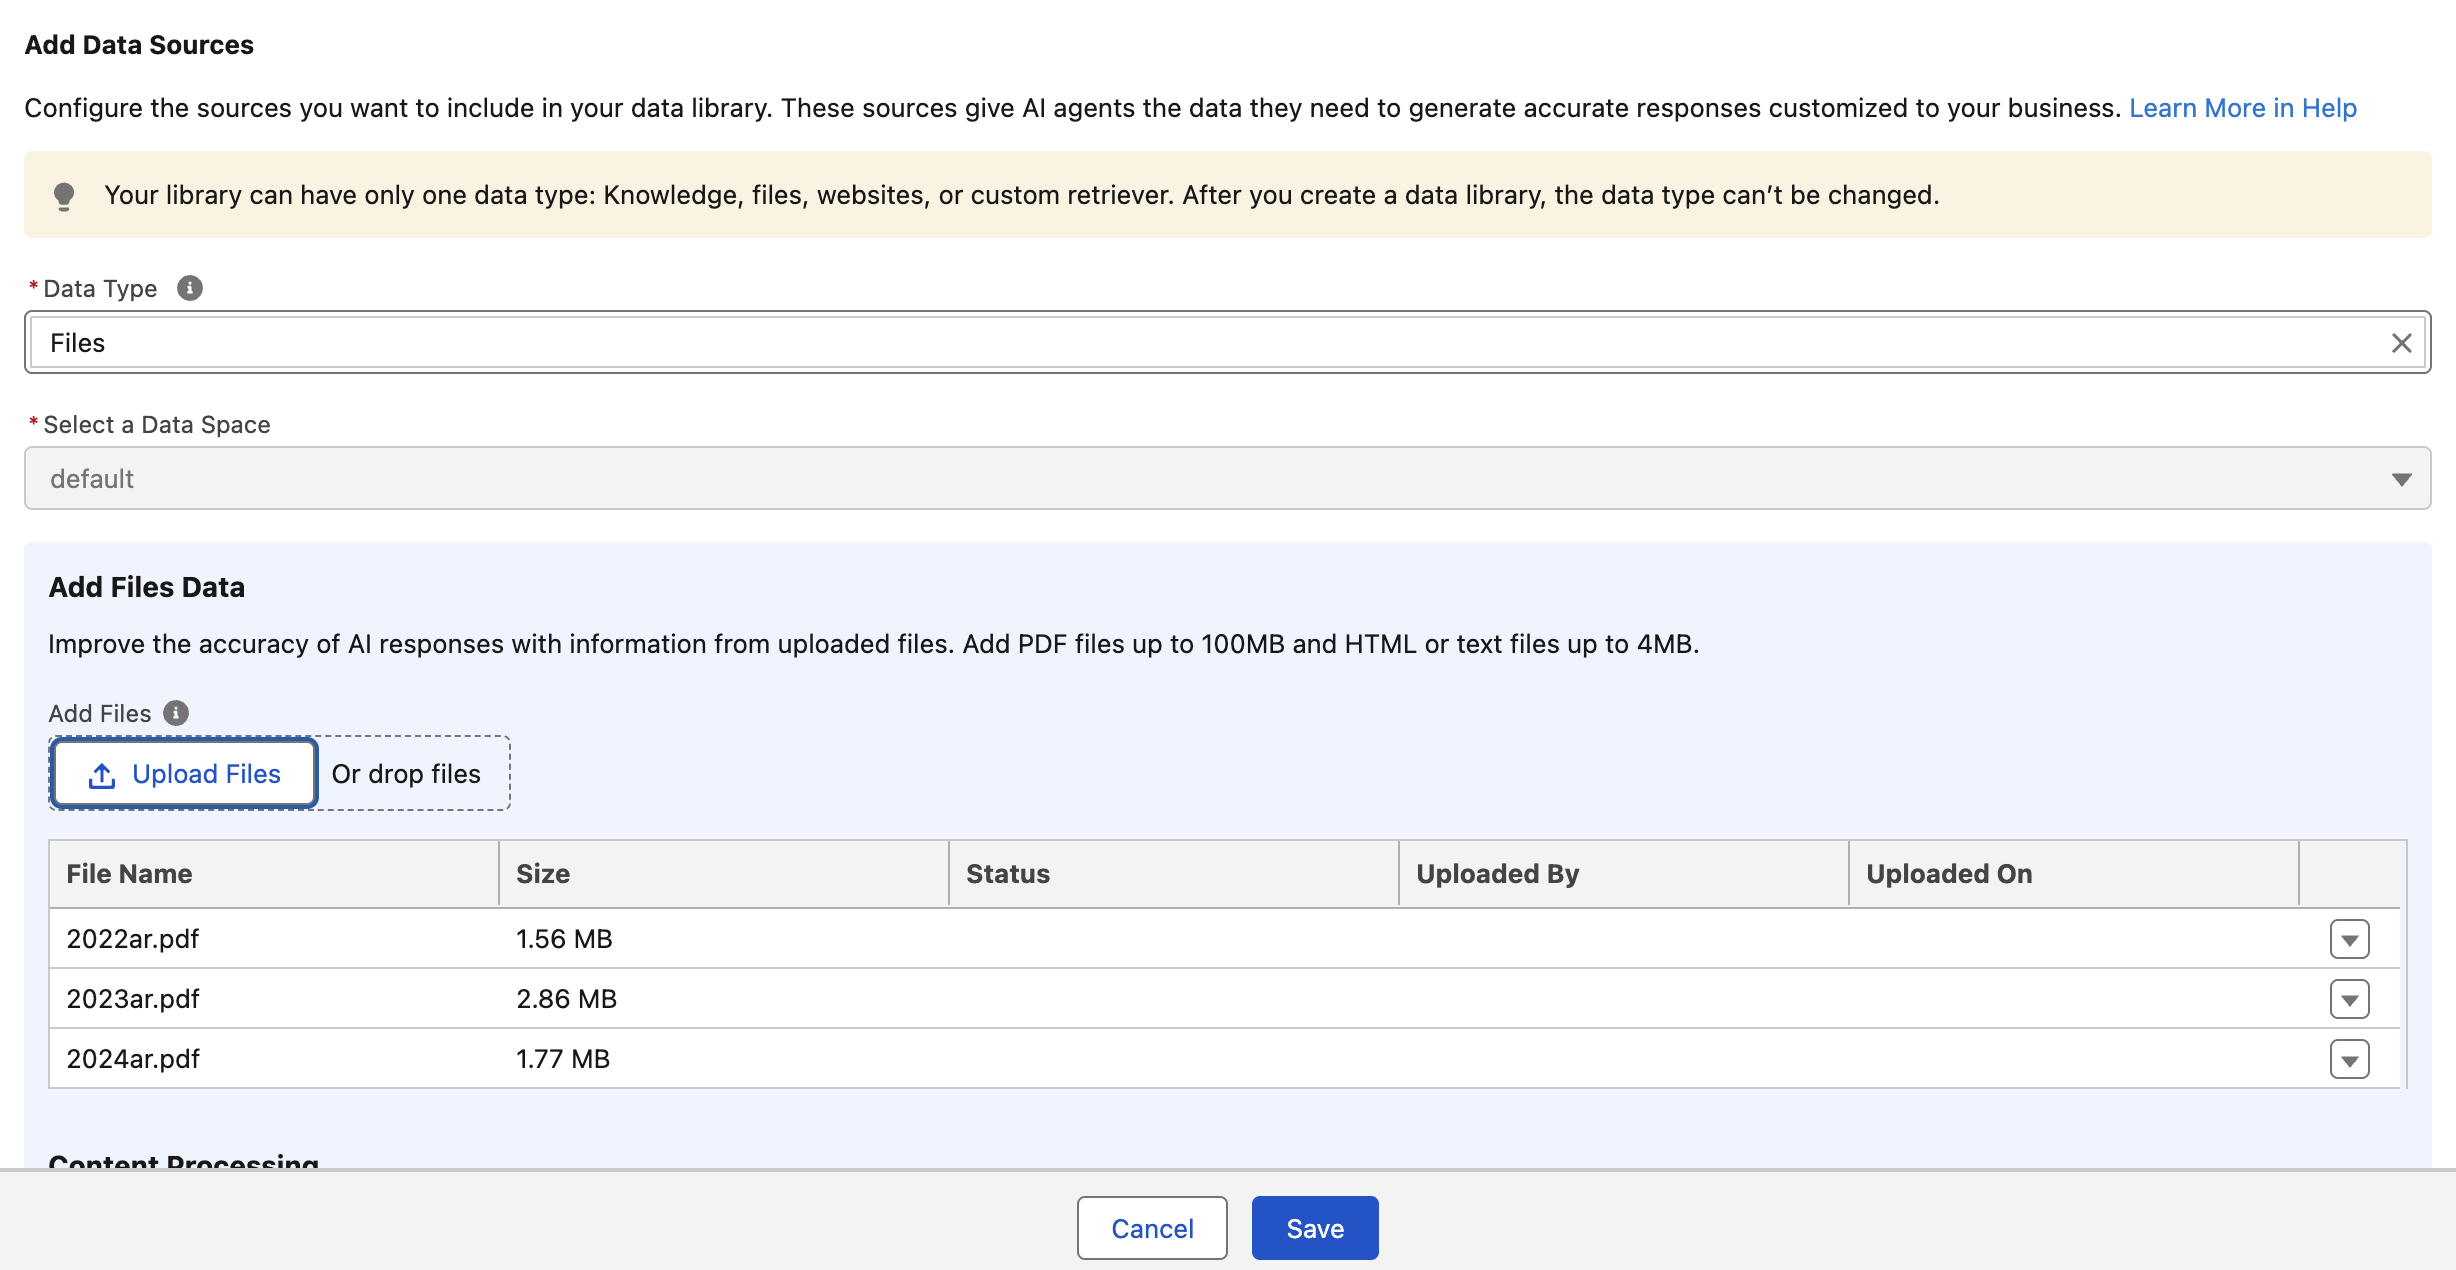
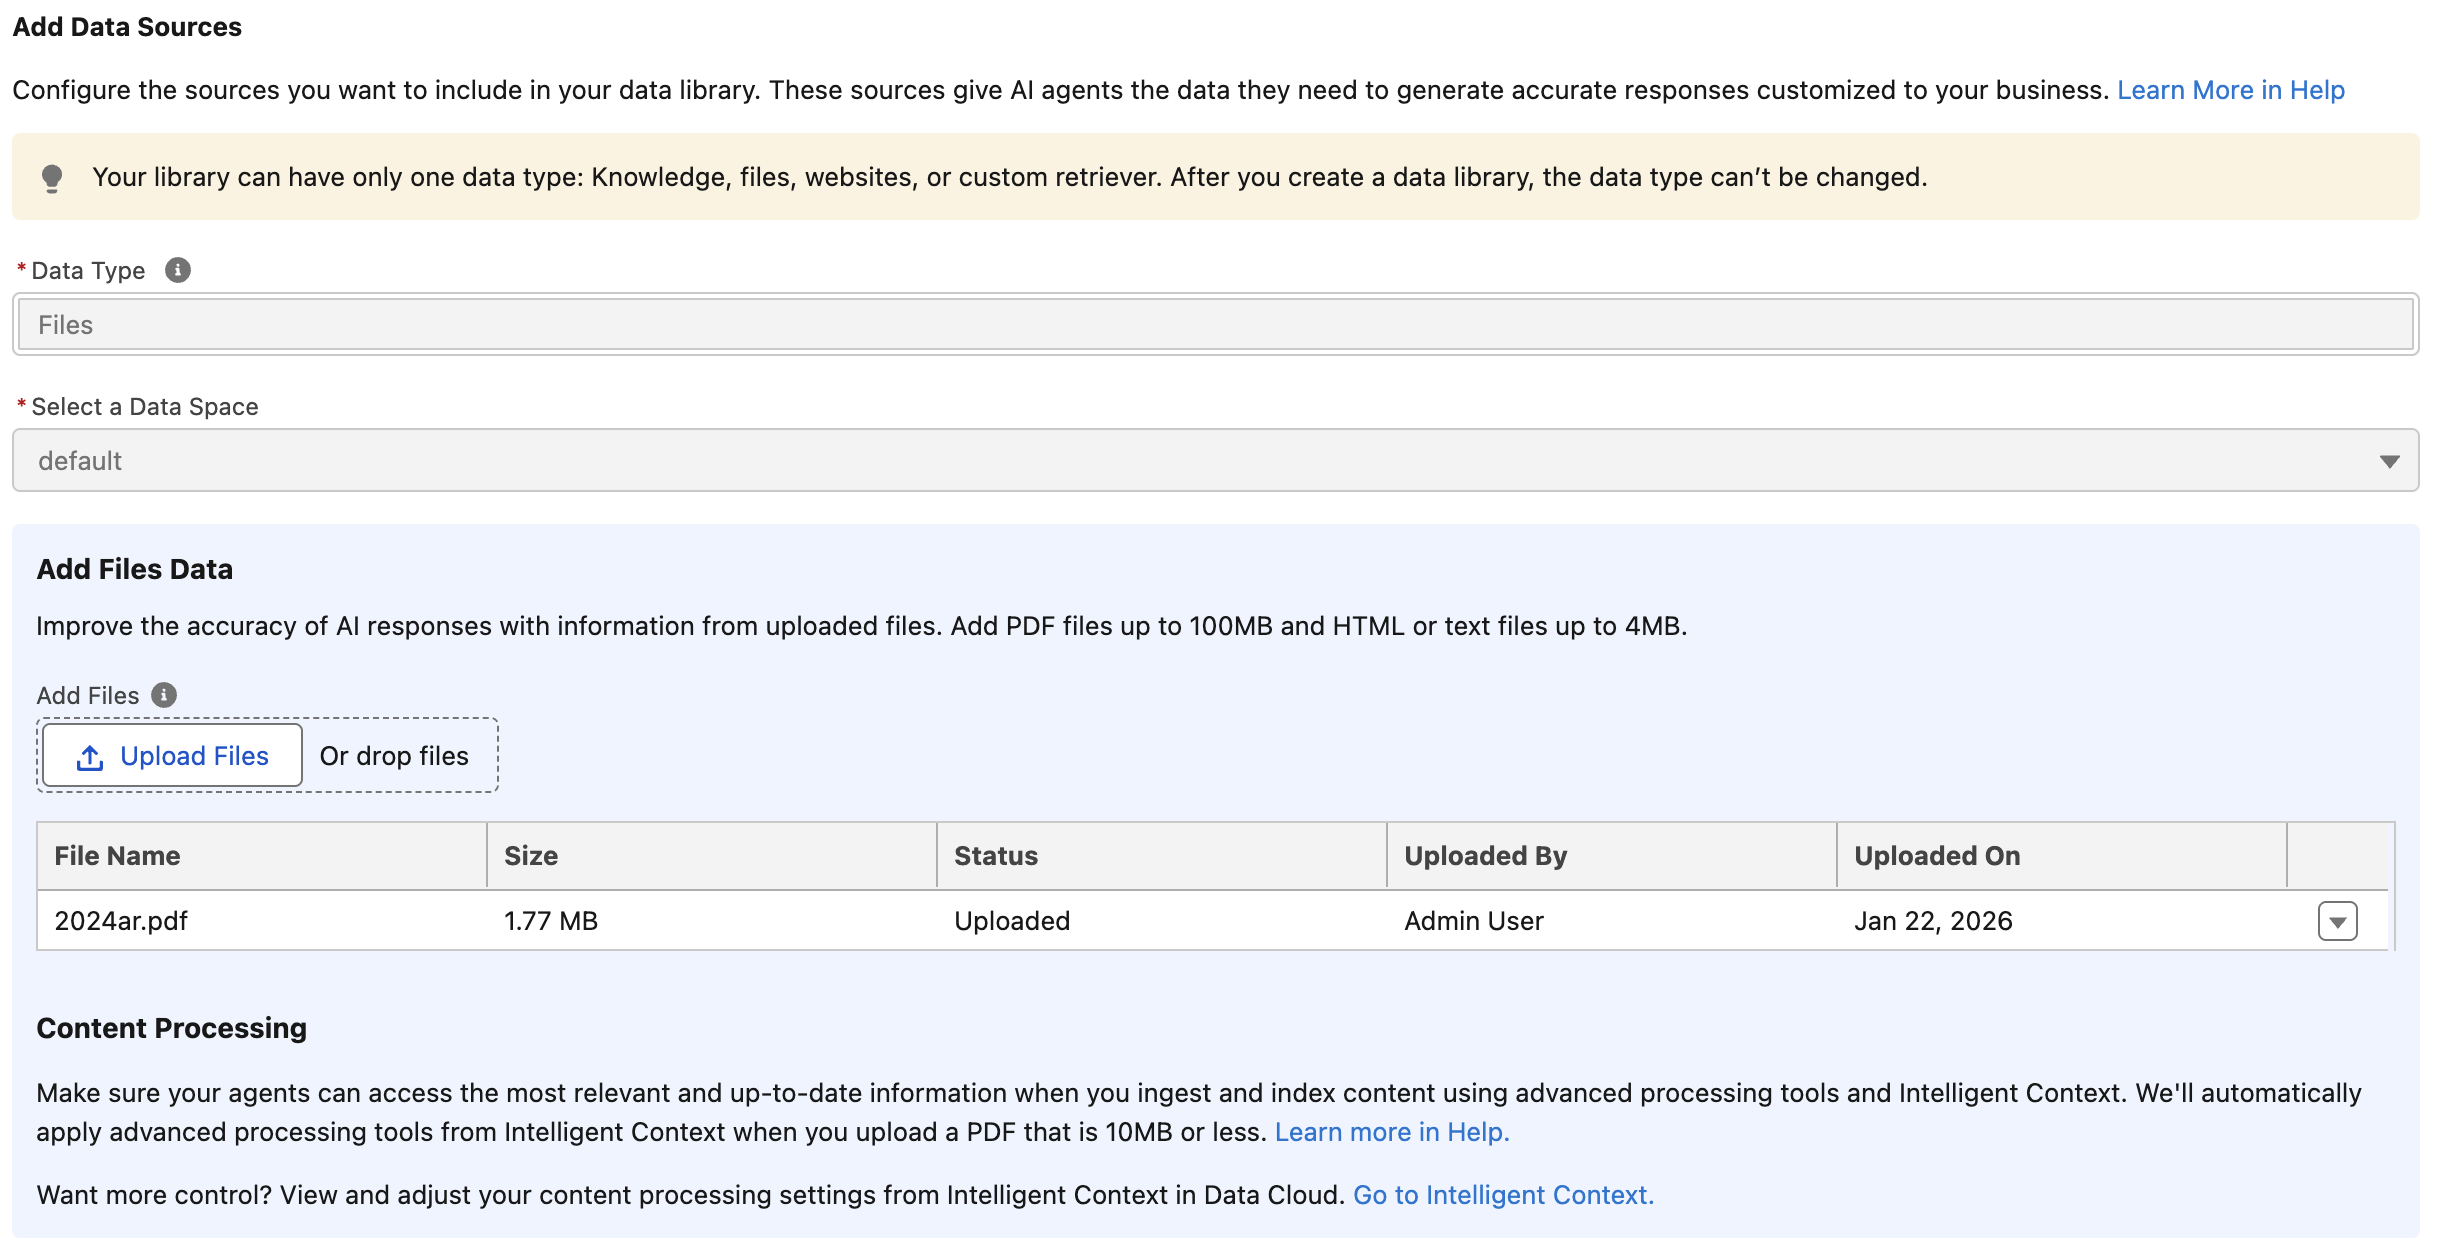
updates JZ

Changed region(s): [[0.0, 0.4354, 1.0, 0.9952], [0.0, 0.0, 0.9975, 0.4043]]

diff --git a/src-static/GENERAL/doc.md b/src-static/GENERAL/doc.md
@@ -148,8 +148,8 @@ In the next **Test Data** section, we can upload test cases in CSV format or use
 Build 5 test cases for the Post-Meeting Assistance Topic about creating an interaction, creating a task, drafting an email to the customer, creating an interaction attendee and creating an interaction summary. Create 1 test case for the Income Statement Analysis Topic that will analyze the income statement of the customer
 ```
 <p float="left">
-  <img src="images/general12.png" width="640" />
-  <img src="images/general13v2.png" width="640" /> 
+  <img src="images/general12.png" width="320" />
+  <img src="images/general13v2.png" width="320" /> 
 </p>
 
 Click **Next**. The Evaluations section lets us choose which criteria we want to evaluate when we run our test. Let's check off all evaluation criteria and click **Generate Test Cases**
@@ -163,9 +163,11 @@ After another 1-2 minutes, our set of tests should be finished running! Refresh 
 It is also best to keep in mind that not getting a follow-up question from the agent can be a good thing and that agents are inherently semantic. Test results will not always consistently pass the same use cases, even if we changed nothing. Even so, this can be a great tool to monitor your agent's performance and catch any red flags before an end user does!
 
 ---
-## 2. Analyze Annual Reports
+## 2. Intelligent Context and Document AI
 
-Accessing structured data is easy - analyzing and interrogating unstructured data can now be just as easy! In this module, we'll load files into the vector database in Data 360 and test it out with a basic configuration. We'll then step it up with an advanced configuration. Then finally include web search to answer questions about a familiar corporate customer, Berkshire Hathaway.
+Accessing structured data is easy - analyzing and interrogating unstructured data can now be just as easy! In this module, we'll load files into Data 360's vector database and test it out with a basic configuration. We'll then step it up with an advanced configuration. Then finally answer questions about a familiar corporate customer, Berkshire Hathaway with Intelligent Context. 
+
+We'll also take a look at Document AI and how LLMs are disrupting intelligent document processing technologies. Through Document AI, we will take an insurance quote PDF and automatically convert it into structured data in Data 360, including automatically defining the data schema. 
 
 Click the Setup Cog icon at the top right and select Setup. Search for Agentforce Data Library and open the page. Click the New Library button (if its grayed out, you might have to wait for Data 360 to finish provisioning). In the modal enter:
 
@@ -175,54 +177,64 @@ Click the Setup Cog icon at the top right and select Setup. Search for Agentforc
 
 ### 2.1 Create a Data Library
 
-We'll download the past 3 years for Berkshire Hathaway to create our Data Library: 
-1. [2024 Annual Report](https://www.berkshirehathaway.com/2024ar/2024ar.pdf)
-2. [2023 Annual Report](https://www.berkshirehathaway.com/2023ar/2023ar.pdf)
-3. [2022 Annual Report](https://www.berkshirehathaway.com/2022ar/2022ar.pdf)
+We'll download the most recent [2024 Annual Report](https://www.berkshirehathaway.com/2024ar/2024ar.pdf) of Berkshire Hathaway to create our Data Library. We only use 1 file to minimize wait times on processing, feel free to include more files if you'd like. Here are links to Berkshire Hathaway's [2023](https://www.berkshirehathaway.com/2023ar/2023ar.pdf) and [2022](https://www.berkshirehathaway.com/2022ar/2022ar.pdf) annual reports 
 
 In Setup, search and select Agentforce Data Library. Click the New Library button on the right and name the new Data Library 'Annual Reports'. Click Save. 
 
 ![](images/vector3.png)
 
-In our new data library, set the Data Type to be 'Files' and click the Upload Files button that shows up below. Upload all 3 annual report PDF files that we downloaded earlier. Click Save. Our data library is now ingesting the files into Data 360 and generating embeddings, chunks and a search retriever for our content. This could take a few minutes. 
+In our new data library, set the Data Type to be 'Files' and click the Upload Files button that shows up below. Upload all 3 annual report PDF files that we downloaded earlier. Click Save. Our data library is now ingesting the files into Data 360 and generating embeddings, chunks and a search retriever for our content. 
+
+**PAUSE**: _Creating a new data library can take time. Let's move on to another section and revisit Intelligent Context after its finished being created. Keep this browser tab open though._
 
 ![](images/vector2.png)
 
-In Setup, search and select Prompt Builder. Create a new Flex Prompt Template and name it 'Analyze Annual Reports'. Under Define Sources add 2 variables:
+### 2.2 Configure Document AI
 
-| Name | API Name | Source Type | Object |
-| ---- | ---- | ---- | ---- |
-| Account | Account | Object | Account |
-| Question | Question | Free Text |  |
+While waiting for our data library to be created, we'll create a Document AI configuration to perform intelligent document processing (converting unstructured content into structured data). To do this, we'll use an insurance auto quote PDF. Download this PDF at sfdc.co/bmwQuote
+
+Using the App Launcher, open the **Data Cloud** App. In the app, find and open the **Process Content** tab (you'll likely have to use the **More** dropdown to find this tab). 
 
 ![](images/vector1.png)
 
-For the Prompt Template, copy-paste the below text. Replace the placeholder with the Resource Search -> ADL_Annual_Reports -> File_ADL_Annual_Reports. 
+Click **New**, select **Without a Source Object** and click **Next**. In the new tab, click **Upload Files** and upload the ```BMW_Quote.pdf``` file. This can take a minute or two, once uploaded successfully, click **Done**. The preview for our PDF should show up shortly. 
 
-```text
-You are a financial analyst that is analyzing the annual reports of Berkshire Hathaway to formulate a succinct, incisive answer to this question: {!$Input:Question}
+In the top left, let's change our LLM in the dropdown from Gemini to OpenAI GPT-4o. In the right pane, select **Using Auto-Extraction**. Click **Next**. 
 
-After reviewing the annual reports from the last 3 years, these are the relevant sections: <RETRIEVER PLACEHOLDER>
-```
+![](images/vector4.png)
+
+Review the output structured data schema that was automatically generated based on our input PDF. The **Fields** tab has the main fields that are extracted from the document (eg. customer name). The **Tables** tab has child table(s) (eg. coverage details). 
+
+We want to include an additional footnotes field. Click **+ Add Field** under the **Fields** tab and use this configuration: 
+    - Name = Footnotes
+    - API Name= Footnotes
+    - Field Type = string
+    - Prompt Instructions = ```Paragraph at the bottom of the quote```
+
+Click Save and then **Test** at the top right to try our configuration. You should see the fields with correctly mapped sample values. Go to the **Tables** tab and click **Preview** beside coverage_details to see the extracted table values as well. 
+
+<p float="left">
+  <img src="images/vector5.png" width="320" />
+  <img src="images/vector6.png" width="320" /> 
+</p>
+
+Click **Save** and name this configuration ```Quote Extraction```. Click **Save** again.  
+
+### 2.3 Intelligent Context
+
+In the **Process Content** tab of Data Cloud, click the **Intelligent Context** in the left pane. Close a pop-up if it appears. Click **New Configuration** at the top right. Name the new search configuration **Annual Reports** and click **Save**. 
+
+In the new tab, click Upload Files and upload the annual report PDF for Berkshire Hathaway we downloaded earlier. Uploading and processing the PDFs can take a minute or two. After the PDFs are uploaded, click **Set up my configuration using smart defaults** in the Agentforce pane on the right. This will briefly analyze your documents and automatically configure Intelligent Context for you. This can take a few minutes. After completion, we can see a preview of the generated chunks from our files and the search configuration that was chosen. 
+
+![](images/vector7.png)
+
+Open the **Edit Configuration** tab in the left pane and we can review the configurations chosen by Agentforce. Expand **Select an Embedding Model** and update this dropdown to **Salesforce Embedding V2 Small**. For **Set Chunking Rules**, move the sliders for **Max Tokens** to approximately 2500 and **Overlap Tokens** to approximately 250. Click **Apply Changes**. This will take a few minutes to update again. 
 
 Click the File_ADL_Annual_Reports to open its configuration on the left. Copy-paste the below text for the Search Text. For Output Fields, select Chunk and set Number of Results to 20. Click Save. 
 
 ```text
 For {!$Input:Account.Name}, answer this question: {!$Input:Question}
 ```
-
-![](images/vector4.png)
-
-We'
-
-![](images/vector5.png)
-![](images/vector6.png)
-![](images/vector7.png)
-![](images/vector8.png)
-![](images/vector9.png)
-![](images/vector10.png)
-![](images/vector11.png)
-![](images/vector12.png)
 
 <p style="text-align: center;"><strong style="color: purple; font-size: 30px; font-weight: bold;">Congratulations!</strong>
 

diff --git a/src-static/BWAM_AGENTSCRIPT/doc.md b/src-static/BWAM_AGENTSCRIPT/doc.md
@@ -19,9 +19,6 @@ In this workshop, you will build a specialized AI agent using deterministic logi
 2. Click **New Agent** to create a new agent.
 3. In the **What agent do you want to build?** dialogue, enter `Create a portfolio advisor agent for a wealth management customer`.
     <img src="images/as_bwam_1.png" alt="Agent creation dialog with natural language prompt" width="640" />
-4. Click the **skip ahead** link.
-5. Click the **Script </>** button and toggle to **Canvas** mode.
-    <img src="images/as_bwam_2.png" alt="Toggle button for Script and Canvas mode" width="200" />
 
 #### Configure agent details
 
